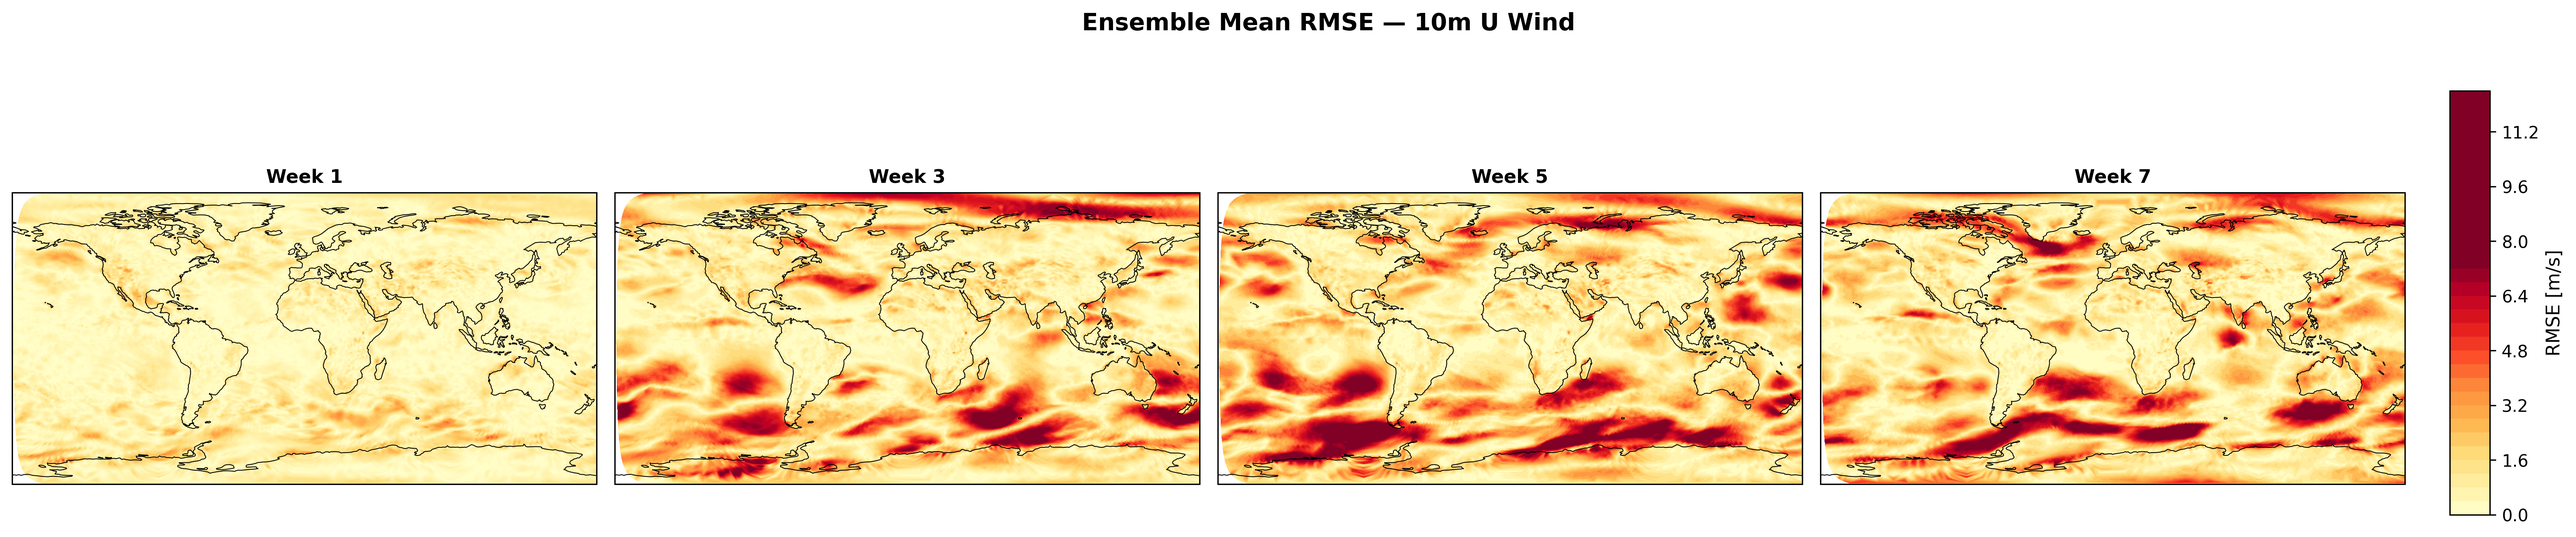
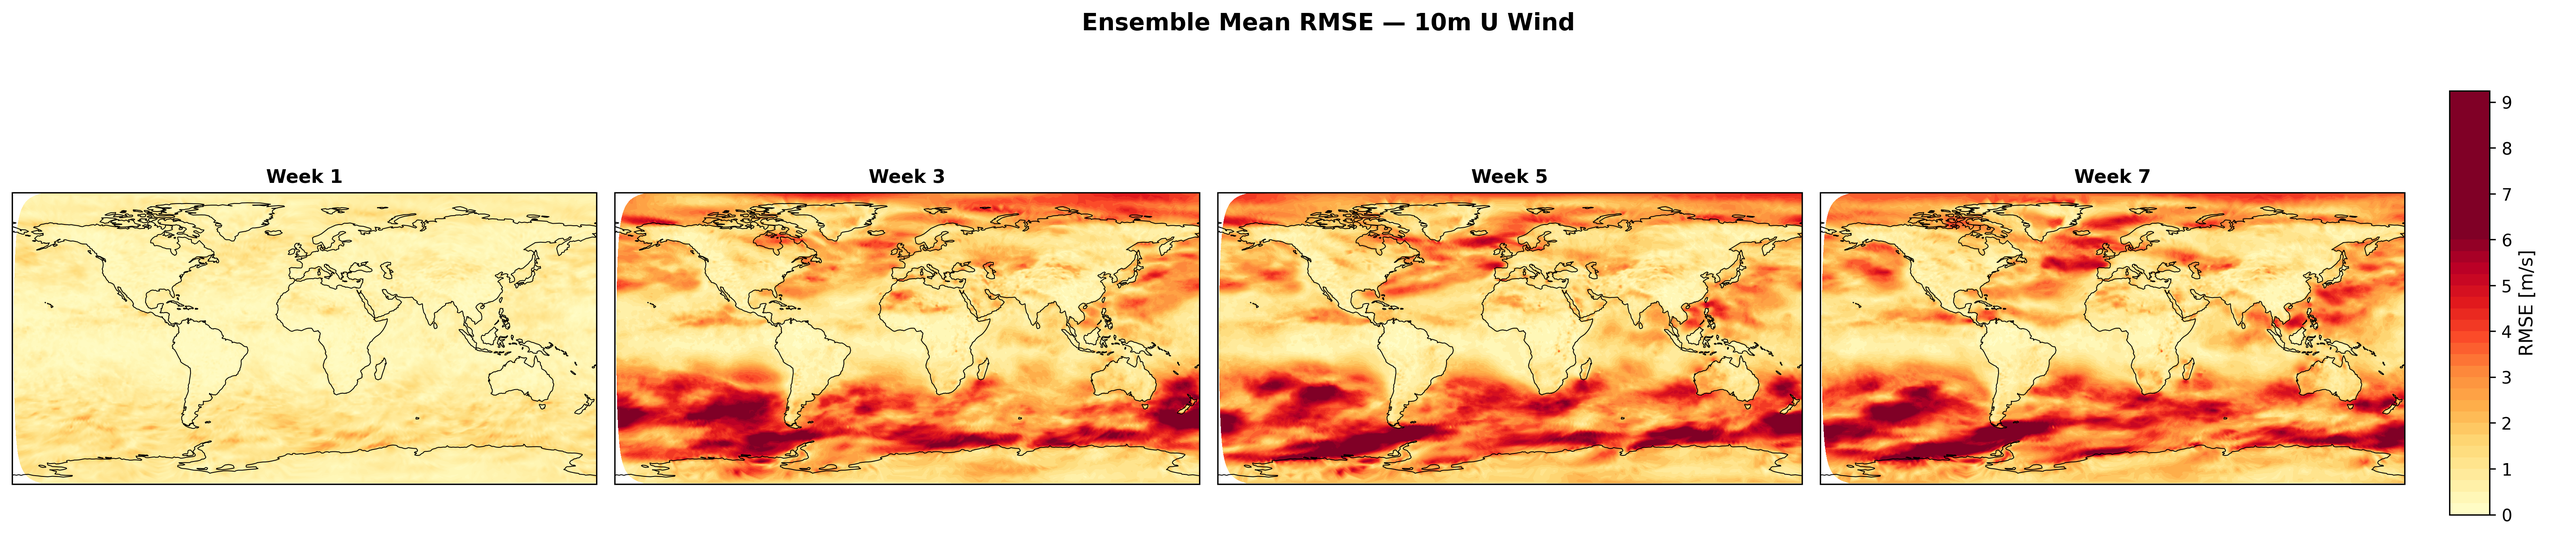
Validation pipeline updated

diff --git a/Anemoi_S2S_experiment/python_scripts/weekly_means/metrics_weekly_means.py b/Anemoi_S2S_experiment/python_scripts/weekly_means/metrics_weekly_means.py
@@ -22,24 +22,11 @@ obs = xr.open_zarr(dataset_path)
 times = obs.dates.values
 obs = obs.assign_coords(time=times).rename({"cell": "values"})
 
-
-
 #select only a substet of variable
 var_names = obs.attrs["variables"]
 var_of_interest = ["2t", "tp", "10u", "10v"]
 var_indices = [var_names.index(var) for var in var_of_interest]
 obs = obs.isel(variable=var_indices)
-
-#load weekly climatology
-climatology_path = "/ec/res4/hpcperm/nld4584/Anemoi_S2S_experiment/output_metrics/weekly_climatology_1979-2019.nc"
-ds_climatology_weekly = xr.open_dataset(climatology_path)
-
-#load weekly thresholds per grid cell
-thresholds_path = "/ec/res4/hpcperm/nld4584/Anemoi_S2S_experiment/output_metrics/thresholds_1979-2019.nc"
-thresholds = xr.open_dataset(thresholds_path)
-thresholds = thresholds["data"].squeeze(dim="ensemble").rename({"cell": "values"}).assign_coords(variable=var_of_interest).transpose("variable","values")
-ds_thresholds = xr.Dataset({var: thresholds.sel(variable=var).drop_vars('variable') for var in var_of_interest})
-
 
 #create latitudinal weights for the metrics
 lat_lon_coords = {
@@ -153,14 +140,28 @@ for init_date in ds_inf_weekly.init_date.values:
 ds_climatology_weekly_inf = xr.concat(ds_clim_multiple__inf_init, dim=xr.DataArray(init_dates, dims='init_date', name='init_date'))
 ds_climatology_weekly_obs = xr.concat(ds_clim_multiple_obs_init, dim=xr.DataArray(init_dates, dims='init_date', name='init_date'))
 
-
-
 #observed anomalies
 observed_anomalies = ds_obs_weekly - ds_climatology_weekly_obs
 
 #predicted anomalies
 predicted_anomalies = ds_inf_weekly - ds_climatology_weekly_inf
 
+
+    
+#Compute thresholds for forecat
+thresholds_per_init = []
+
+for init_date in ds_inf_weekly.init_date.values:
+    month = pd.to_datetime(init_date).month
+    day = pd.to_datetime(init_date).day
+    mask = (ds_inf_weekly.init_date.dt.month == month) & (ds_inf_weekly.init_date.dt.day == day)
+    #thresholds for forecast
+    threshold_95 = ds_inf_weekly.isel(init_date=mask).quantile(0.95, dim=['init_date', 'member'])
+    thresholds_per_init.append(threshold_95)
+    
+
+
+ds_thresholds = xr.concat(thresholds_per_init, dim=xr.DataArray(init_dates, dims='init_date', name='init_date'))
 ############################################################################################################################################################
 #metrics
 n_ensemble = ds_inf_weekly.member.size
@@ -269,15 +270,20 @@ prob_model = binary_model.mean(dim="member")
 p_threshold = np.linspace(0, 1, 8)
 roc_data = {}
 
-for t_idx in range(n_leadtime):
-    week_key = f"week {t_idx}"
-    roc_data[week_key] = {}
-    for var in var_of_interest:
-        roc_data[week_key][var] = roc(
-            prob_model[var].isel(time=t_idx).compute(), 
-            binary_obs[var].isel(time=t_idx).compute(), 
-            p_threshold
-        )
+for init_date in init_dates:
+    print(f"Processing ROC for init date: {init_date}")
+    init_date_key = pd.to_datetime(init_date).strftime('%Y-%m-%d')
+    roc_data[init_date_key] = {}
+    for week in weeks_lead_time:
+        print(f"processing week {week}")
+        week_key = f"week {week}"
+        roc_data[init_date_key][week_key] = {}
+        for var in var_of_interest:
+            roc_data[init_date_key][week_key][var] = roc(
+                prob_model[var].sel(init_date=init_date, week_lead_time=week).compute(), 
+                binary_obs[var].sel(init_date=init_date, week_lead_time=week).compute(), 
+                p_threshold
+            )
 
 #compute crps for the different weeks and variables
 for init_date in init_dates:
@@ -296,8 +302,10 @@ for init_date in init_dates:
 
 for var in var_of_interest:
     ensemble_spread = ds_inf_weekly[var].std(dim="member")
+    spread_squared = ensemble_spread ** 2
     # Spatially average the spread with latitude weighting
-    weighted_spread = (ensemble_spread * lat_weights).sum(dim="values") / lat_weights.sum()
+    weighted_var = (spread_squared * lat_weights).sum(dim="values") / lat_weights.sum()
+    weighted_spread = np.sqrt(weighted_var)
     weighted_spread = weighted_spread.rename({"week_lead_time": "leadtime"})
     ensemble_skill = rmse_results.loc[:, var, :]
     spead_skill_results.loc[:, var, :] = (weighted_spread / ensemble_skill).values
@@ -334,19 +342,21 @@ nc_spatial_rmse_path = os.path.join(output_dir, "Spatial_RMSE_weekly_AIFS.nc")
 spatial_rmse_results_ds.to_netcdf(nc_spatial_rmse_path)
 
 
-#roc - save each week separately as they contain different variables and structures
-for week_key, week_data in roc_data.items():
-    # Merge all variables for this week into one dataset
-    week_ds = xr.merge([week_data[var].rename({metric: f"{var}_{metric}" for metric in week_data[var].data_vars}) 
-                        for var in var_of_interest])
-    
-    # Remove attributes that can't be serialized to NetCDF
-    for var_name in week_ds.data_vars:
-        week_ds[var_name].attrs = {k: v for k, v in week_ds[var_name].attrs.items() 
-                                   if isinstance(v, (str, int, float, list, tuple, bytes, np.ndarray))}
-    
-    nc_roc_week_path = os.path.join(output_dir, f"ROC_{week_key.replace(' ', '_')}_AIFS.nc")
-    week_ds.to_netcdf(nc_roc_week_path)
+#roc - save each init_date and week separately as they contain different variables and structures
+
+for init_date_key, init_data in roc_data.items():
+    for week_key, week_data in init_data.items():
+        # Merge all variables for this week into one dataset
+        week_ds = xr.merge([week_data[var].rename({metric: f"{var}_{metric}" for metric in week_data[var].data_vars}) 
+                            for var in var_of_interest])
+        
+        # Remove attributes that can't be serialized to NetCDF
+        for var_name in week_ds.data_vars:
+            week_ds[var_name].attrs = {k: v for k, v in week_ds[var_name].attrs.items() 
+                                       if isinstance(v, (str, int, float, list, tuple, bytes, np.ndarray))}
+        
+        nc_roc_week_path = os.path.join(output_dir, f"ROC_{init_date_key}_{week_key.replace(' ', '_')}_AIFS.nc")
+        week_ds.to_netcdf(nc_roc_week_path)
     
 #crps
 crps_results_ds = xr.Dataset({var: crps_results.sel(variable=var).drop_vars('variable') for var in var_of_interest})

diff --git a/Anemoi_S2S_experiment/python_scripts/weekly_means/plots_weekly_means.py b/Anemoi_S2S_experiment/python_scripts/weekly_means/plots_weekly_means.py
@@ -30,17 +30,17 @@ color_vars = {
 acc_path = "/ec/res4/hpcperm/nld4584/Anemoi_S2S_experiment/output_metrics/AIFS/ACC_weekly_anomalies_AIFS.nc"
 ACC_ds = xr.open_dataset(acc_path)
 
+R_t_path = "/ec/res4/hpcperm/nld4584/Anemoi_S2S_experiment/output_metrics/AIFS/R_t_weekly_anomalies_AIFS.nc"
+R_t_ds = xr.open_dataset(R_t_path)
 
 #RMSE path and loading
-rmse_path = "/ec/res4/hpcperm/nld4584/Anemoi_S2S_experiment/output_metrics/AIFS/RMSE_weekly_anomalies_AIFS.nc"
+rmse_path = "/ec/res4/hpcperm/nld4584/Anemoi_S2S_experiment/output_metrics/AIFS/RMSE_weekly_AIFS.nc"
 RMSE_ds = xr.open_dataset(rmse_path)
 
-spatial_rmse_path = "/ec/res4/hpcperm/nld4584/Anemoi_S2S_experiment/output_metrics/AIFS/Spatial_RMSE_weekly_anomalies_AIFS.nc"
+spatial_rmse_path = "/ec/res4/hpcperm/nld4584/Anemoi_S2S_experiment/output_metrics/AIFS/Spatial_RMSE_weekly_AIFS.nc"
 SPATIAL_RMSE_ds = xr.open_dataset(spatial_rmse_path)
 
-#Sedi path and loading
-sedi_path = "/ec/res4/hpcperm/nld4584/Anemoi_S2S_experiment/output_metrics/AIFS/SEDI_weekly_anomalies_AIFS.nc"
-SEDI_ds = xr.open_dataset(sedi_path)
+
 
 #Roc path and loading
 roc_datasets = {}
@@ -52,12 +52,16 @@ for i in range(8):
 crps_path = "/ec/res4/hpcperm/nld4584/Anemoi_S2S_experiment/output_metrics/AIFS/CRPS_weekly_AIFS.nc"
 CRPS_ds = xr.open_dataset(crps_path)
 
+#SKill/Spread path and loading
+spead_skill_path = "/ec/res4/hpcperm/nld4584/Anemoi_S2S_experiment/output_metrics/AIFS/Spread_Skill_weekly_AIFS.nc"
+spead_skill_ds = xr.open_dataset(spead_skill_path)
+
 # Line plot data for ACC (ensemble mean metrics)
 lineplot_acc = {
-    "2m Temperature": ACC_ds["2t"].values,
-    "Total Precipitation": ACC_ds["tp"].values,
-    "10m U Wind": ACC_ds["10u"].values,
-    "10m V Wind": ACC_ds["10v"].values
+    "2m Temperature": ACC_ds["2t"].mean(dim="init_date").values,
+    "Total Precipitation": ACC_ds["tp"].mean(dim="init_date").values,
+    "10m U Wind": ACC_ds["10u"].mean(dim="init_date").values,
+    "10m V Wind": ACC_ds["10v"].mean(dim="init_date").values
 }
 
 # Line plot for ACC
@@ -72,10 +76,10 @@ pf.plot_weekly_lines(
 
 # Line plot data for RMSE (ensemble mean metrics)
 lineplot_rmse = {
-    "2m Temperature": RMSE_ds["2t"].values,
-    "Total Precipitation": RMSE_ds["tp"].values,
-    "10m U Wind": RMSE_ds["10u"].values,
-    "10m V Wind": RMSE_ds["10v"].values
+    "2m Temperature": RMSE_ds["2t"].mean(dim="init_date").values,
+    "Total Precipitation": RMSE_ds["tp"].mean(dim="init_date").values,
+    "10m U Wind": RMSE_ds["10u"].mean(dim="init_date").values,
+    "10m V Wind": RMSE_ds["10v"].mean(dim="init_date").values
 }
 
 # Line plot for RMSE
@@ -88,34 +92,35 @@ pf.plot_weekly_lines(
     ylim=None  # Auto scale for RMSE since different variables have different scales
 )
 
-#line plot of SEDI
-pf.plot_weekly_lines(
-    data_dict={
-        "2m Temperature": SEDI_ds["2t"].values,
-        "Total Precipitation": SEDI_ds["tp"].values,
-        "10m U Wind": SEDI_ds["10u"].values,
-        "10m V Wind": SEDI_ds["10v"].values
-    },
-    title='SEDI for Weekly Forecasts of Reference Model, 95th Percentile Event Threshold, 50% Ensemble Probability',
-    colors=color_vars,
-    savename='/ec/res4/hpcperm/nld4584/Anemoi_S2S_experiment/python_scripts/weekly_means/images/sedi_AIFS.png',
-    ylabel='Symmetric Extremal Dependence Index',
-    ylim=(0, 1)
-)
 
 #line plot of crps
 pf.plot_weekly_lines(
     data_dict={
-        "2m Temperature": CRPS_ds["2t"].values,
-        "Total Precipitation": CRPS_ds["tp"].values,
-        "10m U Wind": CRPS_ds["10u"].values,
-        "10m V Wind": CRPS_ds["10v"].values
+        "2m Temperature": CRPS_ds["2t"].mean(dim="init_date").values,
+        "Total Precipitation": CRPS_ds["tp"].mean(dim="init_date").values,
+        "10m U Wind": CRPS_ds["10u"].mean(dim="init_date").values,
+        "10m V Wind": CRPS_ds["10v"].mean(dim="init_date").values
     },
     title='fair CRPS for Weekly Forecasts of Reference Model',
     colors=color_vars,
     savename='/ec/res4/hpcperm/nld4584/Anemoi_S2S_experiment/python_scripts/weekly_means/images/crps_AIFS.png',
     ylabel='Continuous Ranked Probability Score',
     ylim=None  # Auto scale for CRPS since different variables have different scales
+)
+
+#line plot of spread/skill ratio
+pf.plot_weekly_lines(
+    data_dict={
+        "2m Temperature": spead_skill_ds["2t"].mean(dim="init_date").values,
+        "Total Precipitation": spead_skill_ds["tp"].mean(dim="init_date").values,
+        "10m U Wind": spead_skill_ds["10u"].mean(dim="init_date").values,
+        "10m V Wind": spead_skill_ds["10v"].mean(dim="init_date").values
+    },
+    title='Spread/Skill Ratio for Weekly Forecasts of Reference Model',
+    colors=color_vars,
+    savename='/ec/res4/hpcperm/nld4584/Anemoi_S2S_experiment/python_scripts/weekly_means/images/spread_skill_AIFS.png',
+    ylabel='Spread/Skill Ratio',
+    ylim=None  # Auto scale for Spread/Skill Ratio
 )
 
 
@@ -136,6 +141,12 @@ for var in spatial_vars:
         suptitle=f'Ensemble Mean RMSE — {spatial_var_labels[var]}',
         savename=f'/ec/res4/hpcperm/nld4584/Anemoi_S2S_experiment/python_scripts/weekly_means/images/spatial_rmse_{var}_AIFS.png',
     )
+
+#Spatial map of R_t
+pf.plot_weekly_spatial_maps(R_t_ds, ['2t', 'tp', '10u', '10v'], [0, 2, 4, 6], "Temporal CC",
+                            'Temporal Correlation Coefficient of Reference Model',
+                            '/ec/res4/hpcperm/nld4584/Anemoi_S2S_experiment/python_scripts/weekly_means/images/R_t_AIFS.png')
+
 
 # ROC curves — one subplot per week, all variables overlaid
 var_short = ["2t", "tp", "10u", "10v"]
